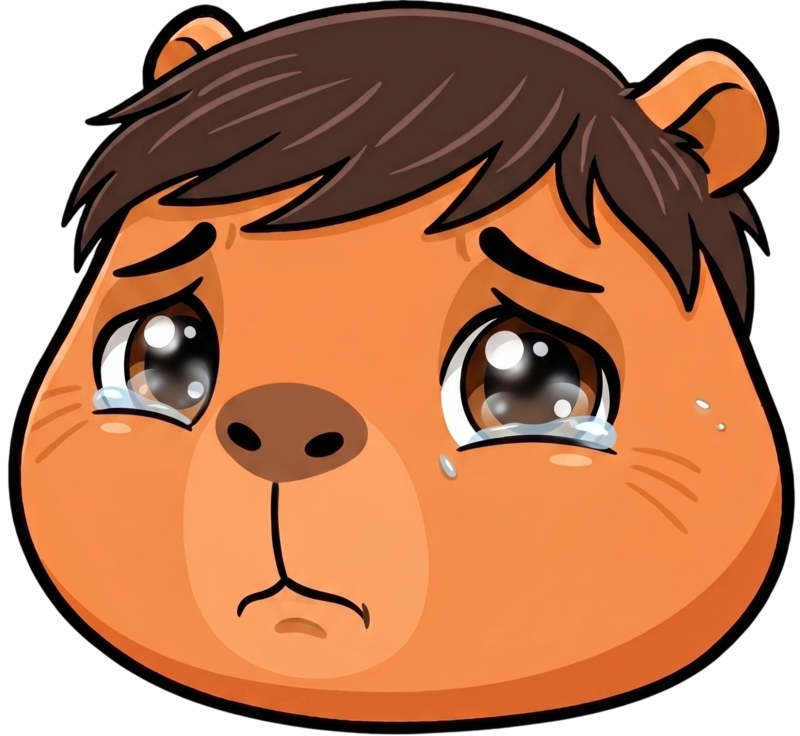
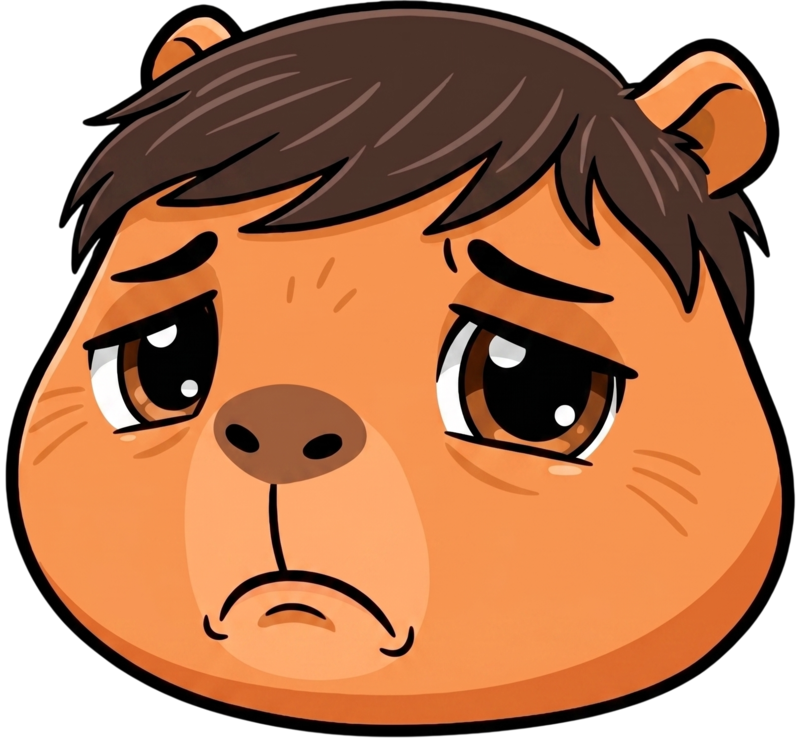
refactor(kapi): que el nombre del archivo diga la cara que tiene
El arreglo anterior corregia el mapa estado -> archivo pero dejaba los ficheros
con el nombre cambiado, esperando que nadie volviera a fiarse de el. Renombrarlos
quita la trampa de raiz.

  kapi-hungry.png (lloraba)      -> kapi-sad.png
  kapi_sad.png    (cara alicaida) -> kapi-hungry.png

De paso el guion bajo pasa a guion, como los otros dos.

Comprobado antes de renombrar que nada mas dependia de esas rutas: solo las usa
KapiPet.jsx, y en la base de datos no hay ninguna referencia (mascota_kap_image_url,
que es la imagen configurable del admin, esta vacia y ademas apunta a una URL
remota, no a estos archivos).

El mapa queda directo: cada estado a su archivo homonimo.

diff --git a/src/components/common/KapiPet/KapiPet.jsx b/src/components/common/KapiPet/KapiPet.jsx
@@ -27,19 +27,15 @@ const KapiPet = () => {
   const [evidenceUrl, setEvidenceUrl] = useState('');
   const [submittingEv, setSubmittingEv] = useState(false);
 
-  // OJO: los dos archivos de ánimo están al revés de lo que sugiere su nombre.
-  // 'kapi-hungry.png' es el que LLORA a lágrima viva y 'kapi_sad.png' el de la
-  // carita alicaída. Como salían tal cual, un solo día sin comer —con la
-  // felicidad todavía en 100— mostraba a Kapi llorando, y llevar días olvidado
-  // mostraba la cara más suave: justo al revés de lo que toca.
-  //
-  // Se corrige aquí y no renombrando los archivos porque son assets públicos:
-  // sus rutas pueden estar guardadas en configuración o en notificaciones.
+  // Cada archivo se llama como la cara que tiene. Estuvieron intercambiados: el
+  // que llora se llamaba 'hungry' y el de la carita alicaida 'sad', asi que un
+  // solo dia sin comer sacaba lagrimas y llevar dias olvidado sacaba la cara
+  // suave. Se renombraron para que el nombre no vuelva a mentir.
   // eslint-disable-next-line no-unused-vars
   const IMAGES = {
     happy: process.env.PUBLIC_URL + '/assets/kapi/kapi-happy.png',
-    hungry: process.env.PUBLIC_URL + '/assets/kapi/kapi_sad.png',
-    sad: process.env.PUBLIC_URL + '/assets/kapi/kapi-hungry.png'
+    hungry: process.env.PUBLIC_URL + '/assets/kapi/kapi-hungry.png',
+    sad: process.env.PUBLIC_URL + '/assets/kapi/kapi-sad.png'
   };
 
   useEffect(() => {
